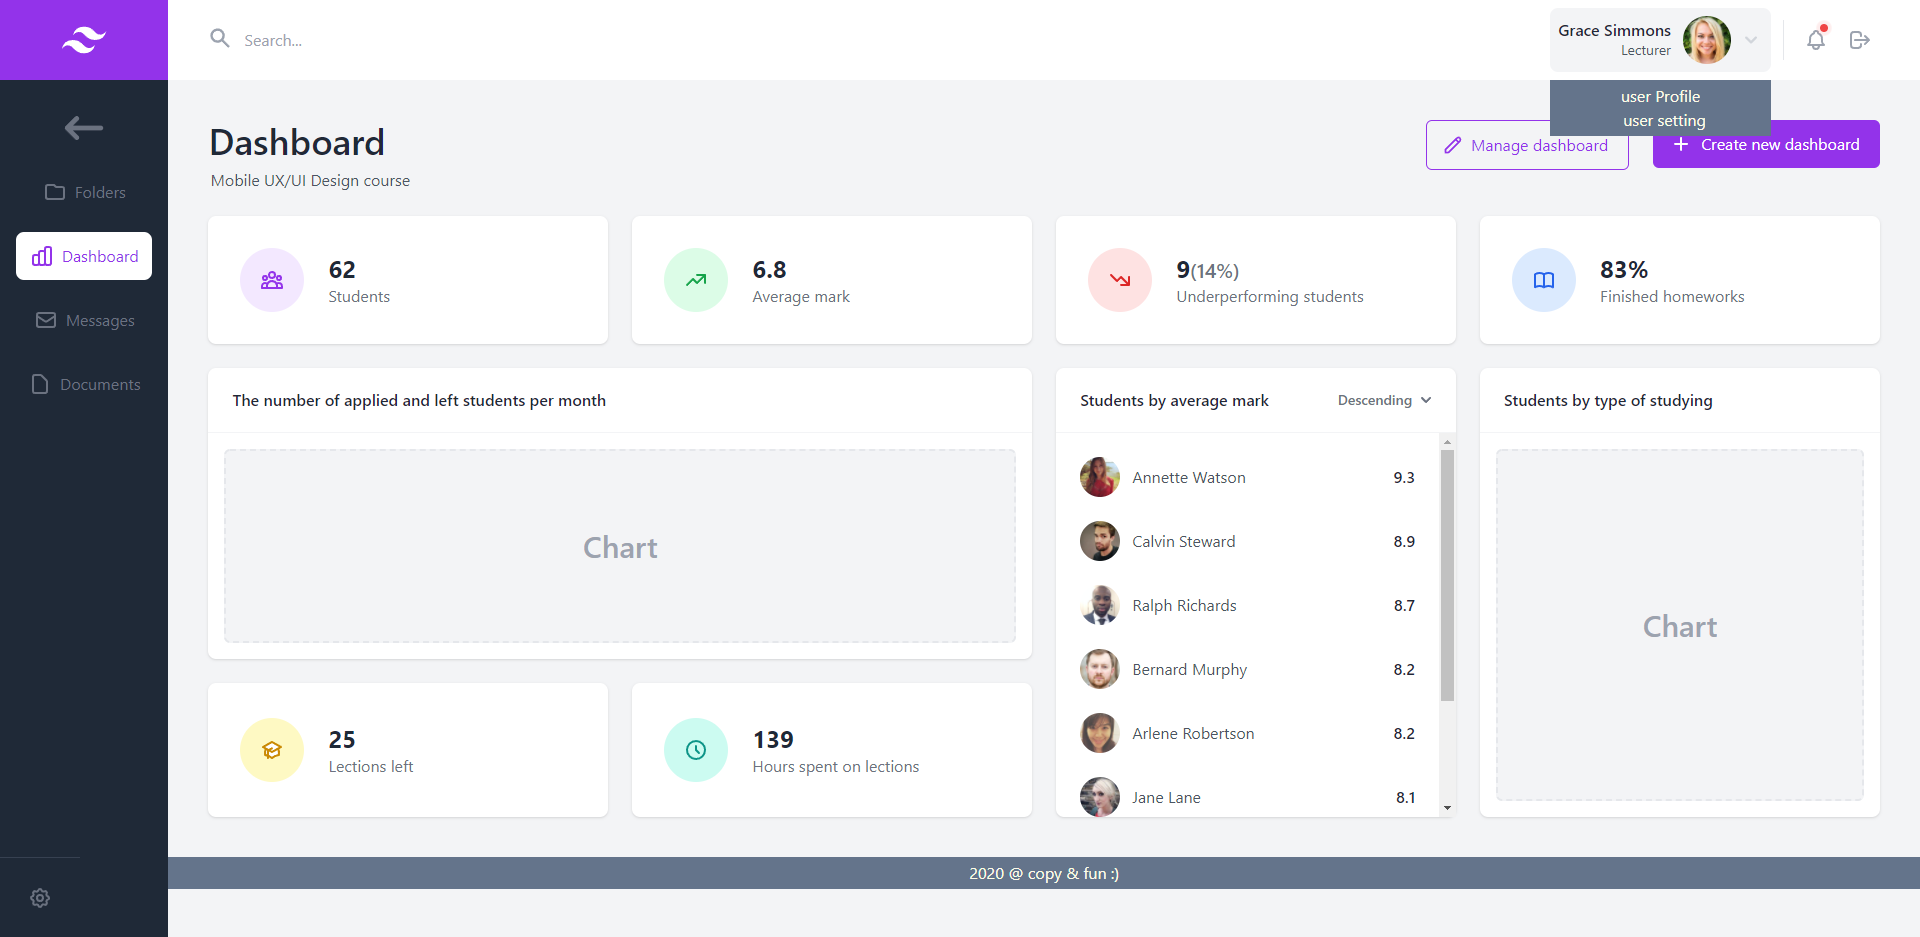
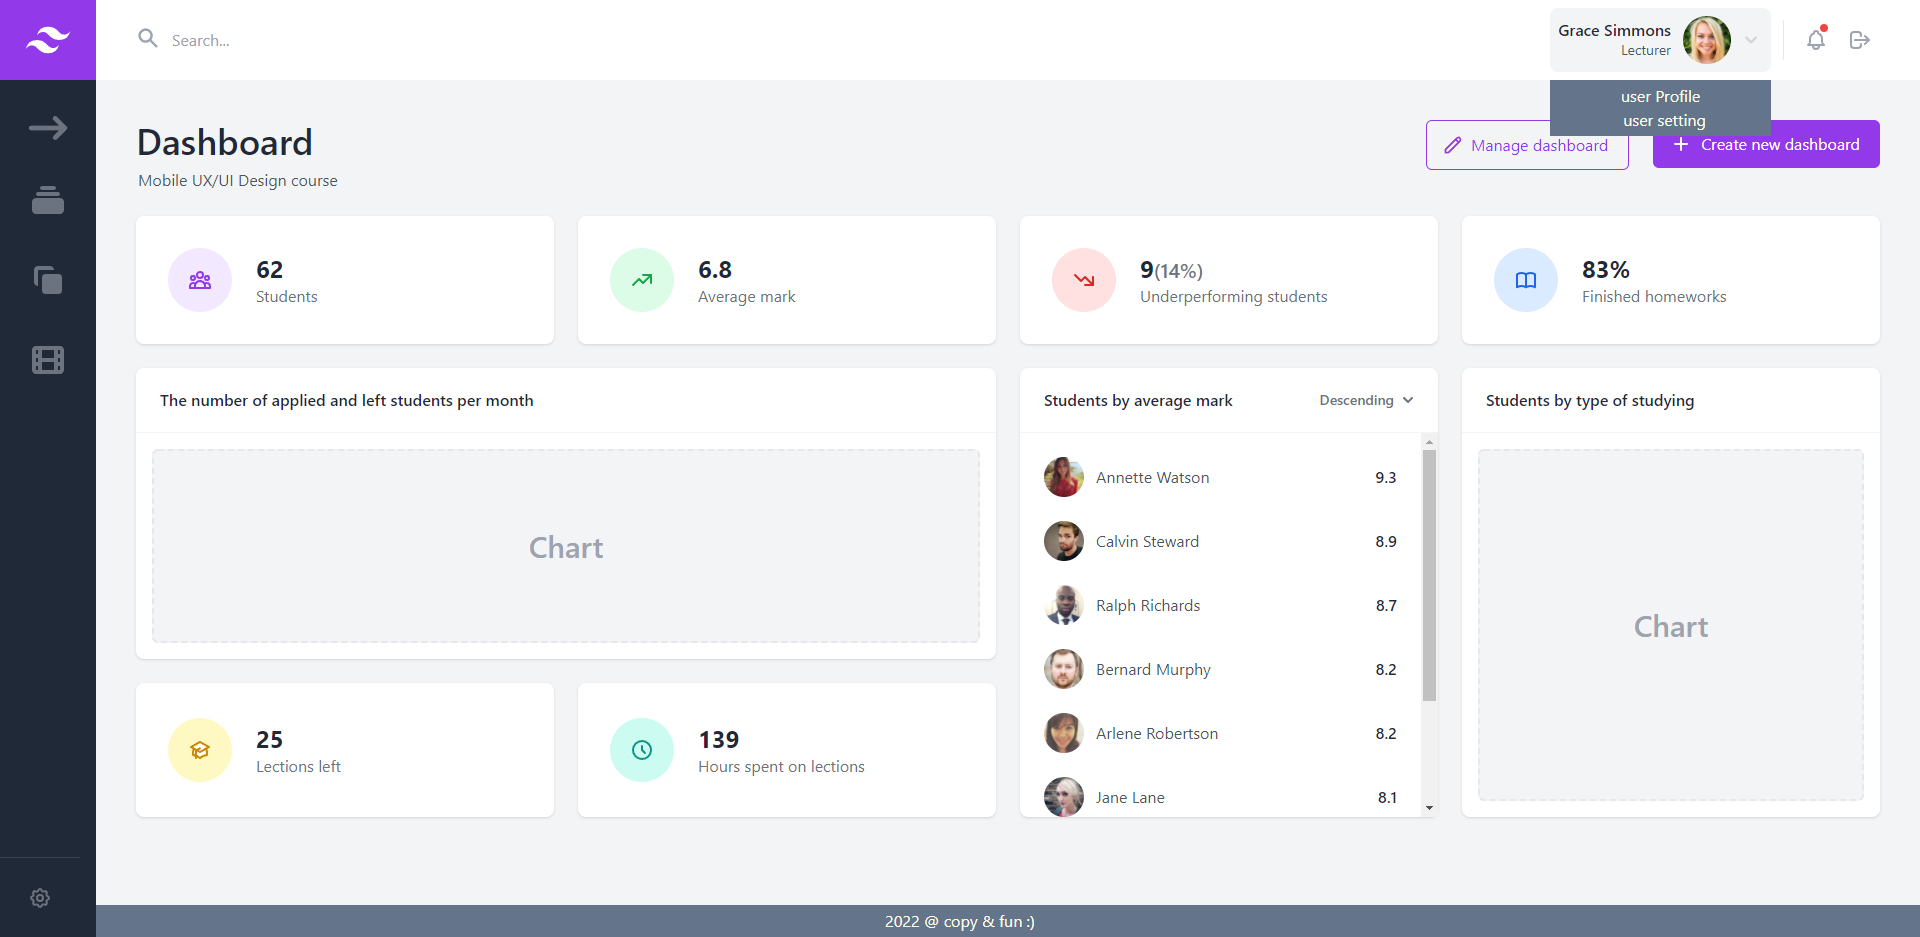
some minor edit

diff --git a/components/sub-category/SubCategoryTable.js b/components/sub-category/SubCategoryTable.js
@@ -1,0 +1,72 @@
+import Table from 'rc-table';
+import React, { useState } from 'react';
+import Pagination from "react-js-pagination";
+
+const SubCategoryTable = () => {
+    const columns = [
+        {
+          title: 'Name',
+          dataIndex: 'name',
+          key: 'name',
+          width: 400,
+          className:"text-white bg-gray-800 p-2 border-r-2 border-b-2",
+          rowClassName:"bg-black-ripon"
+        },
+        {
+          title: 'Category',
+          dataIndex: 'subCount',
+          key: 'subCount',
+          width: 400,
+          className:"text-white bg-gray-600 p-2 border-r-2 border-b-2"
+        },
+        {
+          title: 'Total Product',
+          dataIndex: 'productCount',
+          key: 'productCount',
+          width: 400,
+          className:"text-white bg-gray-800 p-2 border-r-2 border-b-2"
+        },
+        {
+          title: 'Operations',
+          dataIndex: '',
+          key: 'operations',
+          className:"text-white bg-gray-600 p-2 border-b-2",
+          render: () => <><a href="#">View</a> | <a href="#">Edit</a> | <a href="#">Delete</a></>,
+          
+        },
+      ];
+      
+      const data = [
+        { name: 'Jack', subCount: 'avc', productCount: 'some where' },
+        { name: 'Rose', subCount: 'avc', productCount: 'some where' },
+      ];
+
+      //Pagination
+      const [activePage, setActivePage] = useState(15)
+      const handlePageChange = (pageNumber)=>{
+        setActivePage(pageNumber)
+      }
+
+    return (
+        <>
+        <Table columns={columns} data={data}  className='bg-purple-700 p-4 w-full text-center rc-table-custom font-semibold '/>
+        <Pagination
+          activePage={activePage}
+          itemsCountPerPage={10}
+          totalItemsCount={450}
+          pageRangeDisplayed={5}
+          onChange={handlePageChange}
+          nextPageText={'Next'}
+          prevPageText={'Prev'}
+          firstPageText={'First'}
+          lastPageText={'Last'}
+          innerClass="js-ul"
+          itemClass='js-li'
+          linkClass='page-link'
+        />
+        </>
+        
+    );
+};
+
+export default SubCategoryTable;

diff --git a/components/common/PageComponentTitle.js b/components/common/PageComponentTitle.js
@@ -1,0 +1,41 @@
+import React, { useState } from 'react';
+import Modal from './Modal';
+
+const PageComponentTitle = ({title, titleDescription, buttonTitle}) => {
+    const [modal, setModal] = useState(false);
+    
+    return (
+        <>
+        <div className="mr-6">
+          <h1 className="text-4xl font-semibold mb-2">{title}</h1>
+          <h2 className="text-gray-600 ml-0.5">{titleDescription}</h2>
+        </div>
+  
+        <div className="flex flex-wrap items-start justify-end -mb-3">
+          <button
+            className="inline-flex px-5 py-3 text-white bg-purple-600 hover:bg-purple-700 focus:bg-purple-700 rounded-md ml-6 mb-3"
+            onClick={() => setModal(true)}
+          >
+            <svg
+              aria-hidden="true"
+              fill="none"
+              viewBox="0 0 24 24"
+              stroke="currentColor"
+              className="flex-shrink-0 h-6 w-6 text-white -ml-1 mr-2"
+            >
+              <path
+                strokeLinecap="round"
+                strokeLinejoin="round"
+                strokeWidth={2}
+                d="M12 6v6m0 0v6m0-6h6m-6 0H6"
+              />
+            </svg>
+            {buttonTitle}
+          </button>
+          <Modal modal={modal} setModal={setModal} />
+        </div>
+      </>
+    );
+};
+
+export default PageComponentTitle;

diff --git a/components/SubCategory.js b/components/SubCategory.js
@@ -1,24 +1,23 @@
 import React from 'react';
-import CategoryTable from './category/CategoryTable';
 import PageComponentTitle from './common/PageComponentTitle';
+import SubCategoryTable from './sub-category/SubCategoryTable';
 
-const Category = () => {
-   
+const SubCategory = () => {
     return (
         <main className="p-6 sm:p-10 space-y-6">
         
         <div className="flex flex-col space-y-6 md:space-y-0 md:flex-row justify-between">
             <PageComponentTitle 
-                title='Category'
+                title='Sub Category'
                 titleDescription='List, view and edit'
-                buttonTitle='Create new Category'
+                buttonTitle='Create new Sub-category'
             />
         </div>
 
         <section className="grid md:grid-cols-1 xl:grid-cols-1 gap-6">
           
           <div className="flex-grow items-center p-8 bg-white shadow rounded-lg">
-            <CategoryTable />
+            <SubCategoryTable />
           </div>
                     
         </section>
@@ -28,4 +27,4 @@ const Category = () => {
     );
 };
 
-export default Category;
+export default SubCategory;

diff --git a/components/layout/sidebar/Nav.js b/components/layout/sidebar/Nav.js
@@ -1,8 +1,7 @@
 import {
   ArrowNarrowLeftIcon,
   ArrowNarrowRightIcon,
-  CollectionIcon,
-  FilmIcon
+  CollectionIcon, DuplicateIcon, FilmIcon
 } from "@heroicons/react/solid";
 import React, { useEffect, useState } from "react";
 import NavItem from "./NavItem";
@@ -59,9 +58,19 @@ const Nav = ({ sidebarOutsideClick }) => {
         </NavItem> 
 
         <NavItem
+          hrefLink='/sub-category'
+          sidebarStatus={sidebarStatus}
+          menuTitle="Sub-Category"
+          subMenu={false}
+          subMenuArray={null}
+        >
+          <DuplicateIcon className="h-10" />
+        </NavItem> 
+
+        <NavItem
           hrefLink='/'
           sidebarStatus={sidebarStatus}
-          menuTitle="Category"
+          menuTitle="Other Menu"
           subMenu={true}
           subMenuArray={SubCategorySubMenuArray}
         >

diff --git a/components/sub-category/SubCategoryTitle.js b/components/sub-category/SubCategoryTitle.js
@@ -1,7 +1,7 @@
 import React, { useState } from "react";
 import Modal from "../common/Modal";
 
-const CategoryTitle = () => {
+const SubCategoryTitle = () => {
   const [modal, setModal] = useState(false);
   return (
     <>
@@ -37,4 +37,4 @@ const CategoryTitle = () => {
   );
 };
 
-export default CategoryTitle;
+export default SubCategoryTitle;

diff --git a/components/layout/Footer.js b/components/layout/Footer.js
@@ -3,7 +3,7 @@ import React from 'react';
 const Footer = () => {
     return (
         <div className='text-center bg-slate-500 h-auto py-1 text-yellow-50 h-10 absolute w-full bottom-0 z-10'>
-            <span className=''>2020 @ copy & fun :)</span>
+            <span className=''>2022 @ copy & fun :)</span>
         </div>
     );
 };

diff --git a/pages/sub-category.js b/pages/sub-category.js
@@ -1,0 +1,11 @@
+import Layout from '../components/layout/Layout';
+import SubCategory from '../components/SubCategory';
+
+
+export default function subCategoryPage() {
+  return (
+    <Layout title='Sub-Category'>
+        <SubCategory />
+    </Layout>
+  )
+}

diff --git a/pages/category.js b/pages/category.js
@@ -4,7 +4,7 @@ import Layout from '../components/layout/Layout';
 
 export default function categoryPage() {
   return (
-    <Layout title='Home Layout'>
+    <Layout title='Category'>
         <Category />
     </Layout>
   )
